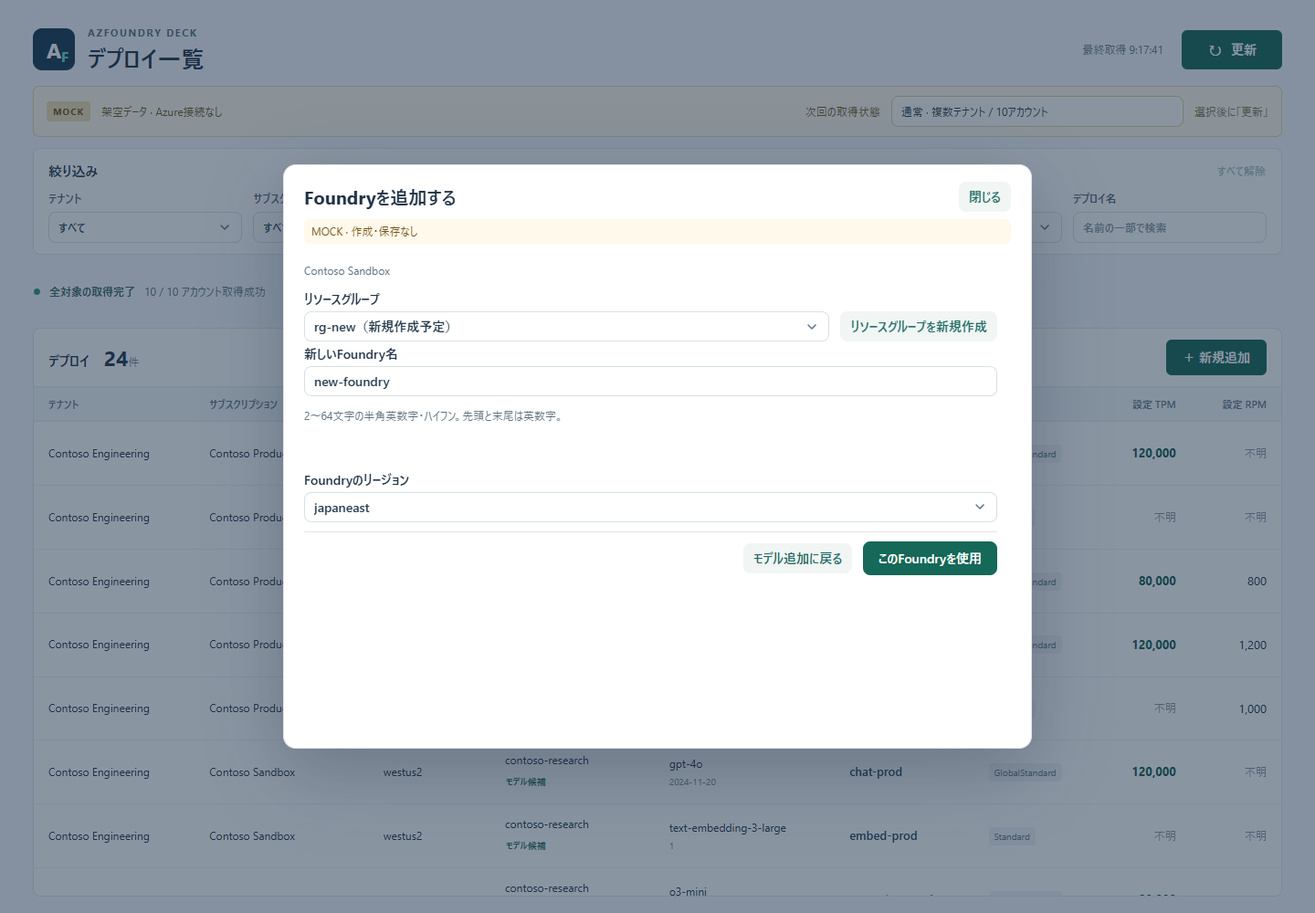
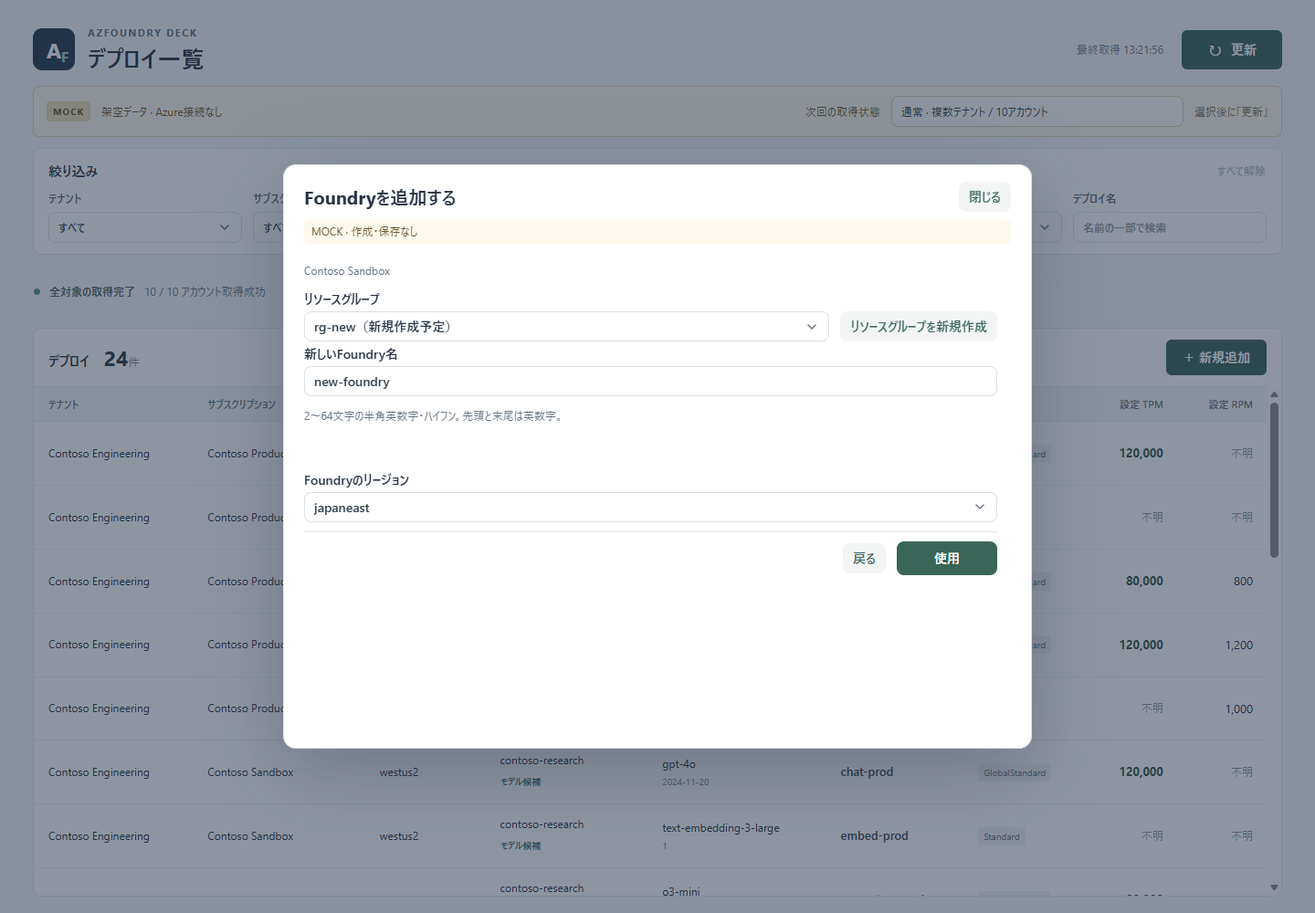
Simplify add-model dialog actions and validate deployment names
Shorten the dialog action labels to 変更 / 追加 / 確認 / 使用 / 戻る and
drop the header close button on the completion screen, where the primary
action is now 閉じる.

Validate the deployment name (2-64 alphanumerics, underscore, hyphen,
period) and show the rule beside the field so the dialog still fits
1080x720. Resource group and Foundry rules are unchanged: a 1-character
resource group name is accepted because Azure allows 1-90.

Add -Attach to the F2 browser test so it drives an already running Edge
over CDP. Playwright cannot launch Edge 153 at all (exit 3221225477,
headless and headed alike), and upgrading @playwright/cli to 0.1.19 does
not help.

diff --git a/frontend/src/AddModel.tsx b/frontend/src/AddModel.tsx
@@ -40,6 +40,8 @@ export default function AddModel({ catalog, loadModels, onClose }: Props) {
   const foundryRule = "2〜64文字の半角英数字・ハイフン。先頭と末尾は英数字。";
   const groupRule = "1〜90文字の文字・数字・_ - . ( )。末尾のピリオドと空白は使用できません。";
   const foundryError = foundryName && (!/^[a-zA-Z0-9][a-zA-Z0-9-]{0,62}[a-zA-Z0-9]$/.test(foundryName) ? foundryRule : foundries.some(item => item.name.toLowerCase() === foundryName.toLowerCase()) ? "同じリソースグループに同名のFoundryがあります。" : "");
+  const deployRule = "2〜64文字の半角英数字・アンダースコア・ハイフン・ピリオド。";
+  const deployError = name && !/^[a-zA-Z0-9_.-]{2,64}$/.test(name) ? deployRule : "";
   const groupError = groupName && (!/^[\p{L}\p{Nd}_().-]{1,90}$/u.test(groupName) || groupName.endsWith(".") ? groupRule : groups.some(item => item.name.toLowerCase() === groupName.toLowerCase()) ? "同じサブスクリプションに同名のリソースグループがあります。" : "");
   function resetModel() {
     modelRequest.current++;
@@ -77,7 +79,7 @@ export default function AddModel({ catalog, loadModels, onClose }: Props) {
   function openGroup(from: "model" | "foundry") { setGroupReturn(from); setGroupName(""); setScreen("group"); }
   const groupPicker = <div className="add-field"><label htmlFor="add-group">リソースグループ</label><div className="add-select-action"><select id="add-group" required value={group} disabled={!subscription} onChange={event => changeGroup(event.target.value)}><option value="">選択してください</option>{groups.map(item => <option key={item.name}>{item.name}</option>)}{newGroup ? <option value={newGroup.name}>{newGroup.name}（新規作成予定）</option> : null}</select><button type="button" className="back-button" disabled={!subscription} onClick={() => openGroup(screen === "foundry" ? "foundry" : "model")}>リソースグループを新規作成</button></div></div>;
   return <dialog ref={dialog} className="add-dialog" aria-labelledby="add-title" onCancel={onClose}>
-    <header className="add-heading"><div><h2 id="add-title" ref={heading} tabIndex={-1}>{titles[screen]}</h2></div><button className="back-button" onClick={onClose} aria-label="モデル追加を閉じる">閉じる</button></header>
+    <header className="add-heading"><div><h2 id="add-title" ref={heading} tabIndex={-1}>{titles[screen]}</h2></div>{screen === "done" ? null : <button className="back-button" onClick={onClose} aria-label="モデル追加を閉じる">閉じる</button>}</header>
     <p className="add-notice">MOCK · 作成・保存なし</p>
     {screen === "model" ? <form onSubmit={event => { event.preventDefault(); setScreen("review"); }}>
       <div className="add-section">
@@ -92,13 +94,13 @@ export default function AddModel({ catalog, loadModels, onClose }: Props) {
 
       <fieldset className="add-section" disabled={modelStatus !== "ready" || !models.length}><legend className="sr-only">モデルとデプロイ設定</legend>
         <div className="add-grid"><label className="add-field">モデル<select aria-label="モデル" required value={model} onChange={event => chooseModel(event.target.value)}><option value="">選択してください</option>{models.map(item => <option key={item.name}>{item.name}</option>)}</select></label><label className="add-field">バージョン<select aria-label="バージョン" required value={version} onChange={event => setVersion(event.target.value)}><option value="">選択してください</option>{selectedModel?.versions.map(item => <option key={item}>{item}</option>)}</select></label><label className="add-field">SKU<select aria-label="SKU" required value={sku} onChange={event => setSku(event.target.value)}><option value="">選択してください</option>{selectedModel?.skus.map(item => <option key={item}>{item}</option>)}</select></label><label className="add-field">Capacity<input type="number" required min="1" step="1" value={capacity} onChange={event => setCapacity(event.target.value)} /></label></div>
-        <label className="add-field">デプロイ名<input required value={name} pattern=".*\S.*" onChange={event => setName(event.target.value)} placeholder="例: chat-production" /></label>
-      </fieldset>      <details className="add-load-controls"><summary>モック：モデル取得の再現</summary><label>モデル取得の状態<select aria-label="モデル取得の状態" value={loadScenario} onChange={event => setLoadScenario(event.target.value as ModelLoadScenario)}><option value="success">通常（約0.8秒）</option><option value="slow">時間がかかる（約8秒）</option><option value="empty">候補なし</option><option value="failure">取得失敗</option></select></label><button type="button" className="text-button" disabled={!foundry} onClick={() => void fetchModels(foundry)}>モデル候補を再取得</button></details><div className="add-actions"><button type="button" className="back-button" onClick={onClose}>キャンセル</button><button className="primary" disabled={modelStatus !== "ready" || !models.length}>追加内容を確認</button></div>
+        <div className="add-grid"><label className="add-field">デプロイ名<input required inputMode="url" autoCapitalize="none" autoCorrect="off" spellCheck={false} aria-describedby="deploy-validation" aria-invalid={Boolean(deployError)} value={name} onChange={event => setName(event.target.value)} placeholder="例: chat-production" /></label><p id="deploy-validation" className={deployError ? "add-validation add-validation-inline add-error" : "add-validation add-validation-inline"} aria-live="polite">{deployError || deployRule}</p></div>
+      </fieldset>      <details className="add-load-controls"><summary>モック：モデル取得の再現</summary><label>モデル取得の状態<select aria-label="モデル取得の状態" value={loadScenario} onChange={event => setLoadScenario(event.target.value as ModelLoadScenario)}><option value="success">通常（約0.8秒）</option><option value="slow">時間がかかる（約8秒）</option><option value="empty">候補なし</option><option value="failure">取得失敗</option></select></label><button type="button" className="text-button" disabled={!foundry} onClick={() => void fetchModels(foundry)}>モデル候補を再取得</button></details><div className="add-actions"><button type="button" className="back-button" onClick={onClose}>キャンセル</button><button className="primary" disabled={modelStatus !== "ready" || !models.length || Boolean(deployError)}>確認</button></div>
     </form> : null}
-    {screen === "foundry" ? <form onSubmit={event => { event.preventDefault(); if (!foundryName || foundryError) return; setNewFoundry({ name: foundryName.trim(), region: foundryRegion }); chooseFoundry(foundryName.trim()); setScreen("model"); }}><p className="add-context">{selectedSubscription?.name}</p>{groupPicker}<label className="add-field">新しいFoundry名<input required inputMode="url" autoCapitalize="none" autoCorrect="off" spellCheck={false} aria-describedby="foundry-validation" aria-invalid={Boolean(foundryError)} value={foundryName} onChange={event => setFoundryName(event.target.value)} /></label><p id="foundry-validation" className={foundryError ? "add-validation add-error" : "add-validation"} aria-live="polite">{foundryError || foundryRule}</p><label className="add-field">Foundryのリージョン<select aria-label="Foundryのリージョン" value={foundryRegion} onChange={event => setFoundryRegion(event.target.value)}><option>japaneast</option><option>eastus</option><option>swedencentral</option></select></label><div className="add-actions"><button type="button" className="back-button" onClick={() => setScreen("model")}>モデル追加に戻る</button><button className="primary" disabled={!foundryName || Boolean(foundryError)}>このFoundryを使用</button></div></form> : null}
-    {screen === "group" ? <form onSubmit={event => { event.preventDefault(); if (!groupName || groupError) return; setNewGroup({ name: groupName.trim(), region: groupRegion }); changeGroup(groupName.trim()); setScreen(groupReturn); }}><p className="add-context">{selectedSubscription?.name}</p><label className="add-field">新しいリソースグループ名<input required inputMode="url" autoCapitalize="none" autoCorrect="off" spellCheck={false} aria-describedby="group-validation" aria-invalid={Boolean(groupError)} value={groupName} onChange={event => setGroupName(event.target.value)} /></label><p id="group-validation" className={groupError ? "add-validation add-error" : "add-validation"} aria-live="polite">{groupError || groupRule}</p><label className="add-field">リソースグループのリージョン<select aria-label="リソースグループのリージョン" value={groupRegion} onChange={event => setGroupRegion(event.target.value)}><option>japaneast</option><option>eastus</option><option>swedencentral</option></select></label><div className="add-actions"><button type="button" className="back-button" onClick={() => setScreen(groupReturn)}>戻る</button><button className="primary" disabled={!groupName || Boolean(groupError)}>このリソースグループを使用</button></div></form> : null}
+    {screen === "foundry" ? <form onSubmit={event => { event.preventDefault(); if (!foundryName || foundryError) return; setNewFoundry({ name: foundryName.trim(), region: foundryRegion }); chooseFoundry(foundryName.trim()); setScreen("model"); }}><p className="add-context">{selectedSubscription?.name}</p>{groupPicker}<label className="add-field">新しいFoundry名<input required inputMode="url" autoCapitalize="none" autoCorrect="off" spellCheck={false} aria-describedby="foundry-validation" aria-invalid={Boolean(foundryError)} value={foundryName} onChange={event => setFoundryName(event.target.value)} /></label><p id="foundry-validation" className={foundryError ? "add-validation add-error" : "add-validation"} aria-live="polite">{foundryError || foundryRule}</p><label className="add-field">Foundryのリージョン<select aria-label="Foundryのリージョン" value={foundryRegion} onChange={event => setFoundryRegion(event.target.value)}><option>japaneast</option><option>eastus</option><option>swedencentral</option></select></label><div className="add-actions"><button type="button" className="back-button" onClick={() => setScreen("model")}>戻る</button><button className="primary" disabled={!foundryName || Boolean(foundryError)}>使用</button></div></form> : null}
+    {screen === "group" ? <form onSubmit={event => { event.preventDefault(); if (!groupName || groupError) return; setNewGroup({ name: groupName.trim(), region: groupRegion }); changeGroup(groupName.trim()); setScreen(groupReturn); }}><p className="add-context">{selectedSubscription?.name}</p><label className="add-field">新しいリソースグループ名<input required inputMode="url" autoCapitalize="none" autoCorrect="off" spellCheck={false} aria-describedby="group-validation" aria-invalid={Boolean(groupError)} value={groupName} onChange={event => setGroupName(event.target.value)} /></label><p id="group-validation" className={groupError ? "add-validation add-error" : "add-validation"} aria-live="polite">{groupError || groupRule}</p><label className="add-field">リソースグループのリージョン<select aria-label="リソースグループのリージョン" value={groupRegion} onChange={event => setGroupRegion(event.target.value)}><option>japaneast</option><option>eastus</option><option>swedencentral</option></select></label><div className="add-actions"><button type="button" className="back-button" onClick={() => setScreen(groupReturn)}>戻る</button><button className="primary" disabled={!groupName || Boolean(groupError)}>使用</button></div></form> : null}
     {screen === "review" || screen === "done" ? <><dl className="add-summary">{[
       ["サブスクリプション", selectedSubscription?.name], ["リソースグループ", `${group}${newGroup?.name === group ? `（新規 / ${newGroup.region}）` : "（既存）"}`], ["Foundry", `${foundry}（${newFoundry?.name === foundry ? "新規" : "既存"} / ${region}）`], ["モデル / バージョン", `${model} / ${version}`], ["SKU / Capacity", `${sku} / ${capacity}`], ["デプロイ名", name],
-    ].map(([label, value]) => <div key={label}><dt>{label}</dt><dd>{value}</dd></div>)}</dl><p>{screen === "done" ? "追加完了の表示までを再現しました。一覧への保存は行っていません。" : "新規指定したリソースグループ、Foundry、モデルの順に作成する想定です。"}</p><div className="add-actions">{screen === "review" ? <><button className="back-button" onClick={() => setScreen("model")}>入力内容を変更</button><button className="primary" onClick={() => setScreen("done")}>モデル追加を再現</button></> : <button className="primary" onClick={onClose}>一覧に戻る</button>}</div></> : null}
+    ].map(([label, value]) => <div key={label}><dt>{label}</dt><dd>{value}</dd></div>)}</dl><p>{screen === "done" ? "追加完了の表示までを再現しました。一覧への保存は行っていません。" : "新規指定したリソースグループ、Foundry、モデルの順に作成する想定です。"}</p><div className="add-actions">{screen === "review" ? <><button className="back-button" onClick={() => setScreen("model")}>変更</button><button className="primary" onClick={() => setScreen("done")}>追加</button></> : <button className="primary" onClick={onClose}>閉じる</button>}</div></> : null}
   </dialog>;
 }

diff --git a/frontend/tests/add-model.browser.js b/frontend/tests/add-model.browser.js
@@ -60,7 +60,7 @@ async page => {
   await field("Foundry").selectOption("contoso-first-model");
   assert(await inputPosition() === positionBeforeLoad, "Foundry特定と読込開始でモデル欄を動かさない");
   await page.getByRole("progressbar", { name: "モデル候補の読込状況" }).waitFor();
-  assert(await field("モデル").isDisabled() && await button("追加内容を確認").isDisabled(), "取得中の設定・確定を無効化");
+  assert(await field("モデル").isDisabled() && await button("確認").isDisabled(), "取得中の設定・確定を無効化");
   await page.getByText("モック：モデル取得の再現", { exact: true }).click();
   await field("モデル取得の状態").selectOption("slow");
   await button("モデル候補を再取得").click();
@@ -87,11 +87,18 @@ async page => {
   await field("SKU").selectOption("Standard");
   await field("モデル").selectOption("text-embedding-3-large");
   assert(await field("バージョン").inputValue() === "1" && await field("SKU").inputValue() === "Standard" && await field("デプロイ名").inputValue() === "text-embedding-3-large", "モデル変更で既定値を再設定");
+  for (const invalid of ["a", "chat production", "日本語", "a".repeat(65), "chat/prod"]) {
+    await field("デプロイ名").fill(invalid);
+    assert(await button("確認").isDisabled(), `デプロイ名不正の拒否: ${invalid}`);
+  }
+  await field("デプロイ名").fill("chat.prod_1-a");
+  assert(await button("確認").isEnabled(), "デプロイ名有効の許可");
+  await checkStableValidation("デプロイ名", "chat-prod", "a");
   await chooseModel();
   await page.screenshot({ path: "docs/verification/add-model-existing.png" });
-  await button("追加内容を確認").click();
+  await button("確認").click();
   assert((await page.locator(".add-summary").textContent()).includes("contoso-first-model（既存"), "0件Foundryの選択");
-  await button("入力内容を変更").click();
+  await button("変更").click();
   assert(await field("デプロイ名").inputValue() === "first-chat", "確認から戻る入力保持");
   await field("サブスクリプション").selectOption("subscription-002");
   assert(await field("リソースグループ").inputValue() === "" && await field("Foundry").inputValue() === "", "上位変更で配置先解除");
@@ -99,37 +106,38 @@ async page => {
   await checkStableValidation("新しいFoundry名", "valid-foundry", "a");
   for (const invalid of ["a", "a".repeat(65), "-foundry", "foundry-", "bad_name", "bad name", "日本語"]) {
     await field("新しいFoundry名").fill(invalid);
-    assert(await button("このFoundryを使用").isDisabled(), `Foundry不正名の拒否: ${invalid}`);
+    assert(await button("使用").isDisabled(), `Foundry不正名の拒否: ${invalid}`);
   }
   for (const valid of ["ab", "A".repeat(64), "valid-foundry"]) {
     await field("新しいFoundry名").fill(valid);
-    assert(await button("このFoundryを使用").isEnabled(), "Foundry有効名の許可");
+    assert(await button("使用").isEnabled(), "Foundry有効名の許可");
   }
   await field("新しいFoundry名").fill("new-foundry");
   await button("リソースグループを新規作成").click();
   await checkStableValidation("新しいリソースグループ名", "valid-rg", "bad name");
   for (const invalid of ["bad name", "name.", "bad/name", "a".repeat(91), "RG-SANDBOX"]) {
     await field("新しいリソースグループ名").fill(invalid);
-    assert(await button("このリソースグループを使用").isDisabled(), `RG不正名・重複の拒否: ${invalid}`);
+    assert(await button("使用").isDisabled(), `RG不正名・重複の拒否: ${invalid}`);
   }
   for (const valid of ["a", "a".repeat(90), "日本語_開発(1)-rg"]) {
     await field("新しいリソースグループ名").fill(valid);
-    assert(await button("このリソースグループを使用").isEnabled(), "RG有効名の許可");
+    assert(await button("使用").isEnabled(), "RG有効名の許可");
   }
   await field("新しいリソースグループ名").fill("rg-new");
   await page.screenshot({ path: "docs/verification/add-model-group.png" });
-  await button("このリソースグループを使用").click();
+  await button("使用").click();
   assert(await field("新しいFoundry名").inputValue() === "new-foundry", "拡張操作から戻る入力保持");
   await page.screenshot({ path: "docs/verification/add-model-foundry.png" });
-  await button("このFoundryを使用").click();
+  await button("使用").click();
   await chooseModel();
-  await button("追加内容を確認").click();
+  await button("確認").click();
   const summary = await page.locator(".add-summary").textContent();
   assert(summary.includes("rg-new（新規") && summary.includes("new-foundry（新規"), "両リソース新規作成");
   await page.screenshot({ path: "docs/verification/add-model-review.png" });
-  await button("モデル追加を再現").click();
+  await button("追加").click();
   await page.getByRole("heading", { name: "モデル追加の再現が完了しました" }).waitFor();
-  await button("一覧に戻る").click();
+  assert(await button("閉じる").count() === 1, "完了画面の閉じるは1つだけ");
+  await button("閉じる").click();
   // The entry remains available when the deployment list itself is empty.
   await page.getByLabel("次回の取得状態", { exact: true }).selectOption("empty");
   await page.getByRole("button", { name: /(?:更新|再取得)$/ }).click();
@@ -138,15 +146,15 @@ async page => {
   await field("サブスクリプション").selectOption("subscription-001");
   await button("リソースグループを新規作成").click();
   await field("新しいリソースグループ名").fill("rg-direct");
-  await button("このリソースグループを使用").click();
+  await button("使用").click();
   assert(await field("リソースグループ").inputValue() === "rg-direct", "配置先欄からの直接作成");
   await button("Foundryを新規作成").click();
-  await button("モデル追加に戻る").click();
+  await button("戻る").click();
   assert(await field("Foundry").inputValue() === "", "キャンセルでFoundryを作らない");
   await page.setViewportSize({ width: 1080, height: 720 });
   assert(await page.locator("dialog").evaluate(el => el.scrollWidth <= el.clientWidth), "ダイアログの横はみ出し");
   await page.keyboard.press("Escape");
   assert(await page.getByRole("dialog").count() === 0, "Escapeで閉じる");
   assert(errors.length === 0, errors.join("\n"));
-  return { passed: true, checks: ["model-loading-empty-error-retry-stale", "stable-validation-and-input-mode", "list-button-placement", "model-defaults", "resource-naming", "empty-foundry", "review-and-back", "subscription-reset", "nested-resource-creation", "mock-completion", "empty-list-entry", "direct-group-creation", "cancel", "responsive-and-escape"], pageErrors: errors };
+  return { passed: true, checks: ["model-loading-empty-error-retry-stale", "stable-validation-and-input-mode", "list-button-placement", "model-defaults", "deploy-name-validation", "resource-naming", "empty-foundry", "review-and-back", "subscription-reset", "nested-resource-creation", "mock-completion", "empty-list-entry", "direct-group-creation", "cancel", "responsive-and-escape"], pageErrors: errors };
 }

diff --git a/frontend/src/style.css b/frontend/src/style.css
@@ -27,6 +27,7 @@
 .deployment-list-actions { display: flex; align-items: center; justify-content: space-between; width: 100%; gap: 24px; }
 .deployment-list-actions .primary { padding: 9px 16px; }
 .add-validation { color: #637583; font-size: 12px; height: 4.8em; line-height: 1.6; margin: 12px 0; }
+.add-validation.add-validation-inline { height: 3.2em; margin: 4px 0; align-self: end; }
 .add-validation.add-error { color: #b42318; }
 .add-model-load { height: 32px; overflow: auto; display: flex; align-items: center; gap: 10px; flex-wrap: wrap; color: #637583; font-size: 12px; }
 .add-model-load progress { width: 120px; height: 8px; accent-color: #166858; }

diff --git a/PLAN.md b/PLAN.md
@@ -4,13 +4,13 @@
 
 ## 1. 現在の到達点（2026-09-14）
 
-**次は「モデルを追加する」仮UIの利用者確認を続ける。実Azureでの作成処理にはまだ進まない。** 今回の引き継ぎ依頼は、最新版UIの最終動作合意ではありません。
+**次は「モデルを追加する」仮UIの残りのシナリオを利用者と確認し、実処理へ移す前の設計（U4）に入る。実Azureでの作成処理にはまだ進まない。**
 
 | 機能 | 実装・合意・検証の状態 |
 | --- | --- |
 | F1：アカウント横断のデプロイ一覧 | モック・実Azure読取を実装済み。2026-09-13に残件を[Issue #1](https://github.com/nuitsjp/azfoundry-deck/issues/1)へ移管してクローズ。今回の一覧UI簡潔化を含むheadless 13項目は合格。最後の共通フォーカス・選択欄CSS変更後にはF1全項目を再実行していない。 |
 | F2：モデル候補参照 | 共通Goサービス・Azure ARM List Models・旧独立画面は実装済み。旧画面のモック9項目・実Azureサービス／画面は過去の実行で合格。今後はモデル追加の選択操作に位置づける。旧独立画面の承認を次の開始条件にしない。 |
-| F3：モデル追加 | RG・Foundry新規入力を含む仮UIのみ実装。モデル候補はフロントエンドの固定データを非同期で返し、既存のGo ModelServiceには未接続。作成・保存・一覧反映は行わない。最新版のheadless 14項目は合格、利用者の最終合意は未取得。 |
+| F3：モデル追加 | RG・Foundry新規入力を含む仮UIのみ実装。モデル候補はフロントエンドの固定データを非同期で返し、既存のGo ModelServiceには未接続。作成・保存・一覧反映は行わない。2026-09-14に確認・完了ダイアログのボタン表記を簡潔化（変更／追加／確認／使用／戻る／閉じる）し、完了画面の右上「閉じる」を削除。同日、デプロイ名に入力検査（2〜64文字の半角英数字・アンダースコア・ハイフン・ピリオド）を追加。15項目は接続Edgeで再実行して合格。同日、利用者はボタン表記・デプロイ名検査・RGの1文字許容を合意。仮UI全体の通し確認は未完。 |
 | F3：既存デプロイの変更・削除 | 未実装。詳細ユースケースも未合意。 |
 | F4：クォータ参照 | 未実装・詳細未合意。 |
 
@@ -28,10 +28,11 @@
 
 | ID | 状態と内容 | 再開条件・扱い |
 | --- | --- | --- |
-| U1 | モデル追加全体の最新版仮UIの最終合意待ち。個別の変更指示は反映済み。 | 次回は仮UI確認から再開。F2独立画面への最終合意を別途求めない。 |
+| U1 | モデル追加仮UIは部分合意。2026-09-14にボタン表記、完了画面の右上「閉じる」削除、デプロイ名検査、RGの1文字許容を合意した。既存Foundryへの追加、空Foundryへの初回追加、Foundry新規追加、そこからのRG新規追加、候補の読込中・失敗・再試行の通し確認は記録なし。 | 次回は残りのシナリオ確認から再開する。F2独立画面への最終合意を別途求めない。 |
 | U2 | ネイティブWebView2、Windows IMEの実際のOFF切替、高コントラスト表示は未検証。入力モード属性とheadless画面は確認済み。 | ネイティブを操作・観測できる環境で確認。IME OFFを確認済みと報告しない。F1ネイティブ残件はIssue #1。 |
 | U3 | F1の実Deployment API複数ページ、別権限構成、許容性能、TPM/RPMのPortal照合はIssue #1へ移管済み。 | Issueの項目ごとの再開条件に従う。後続機能全体を止める条件にはしない。認証不能サブスクリプションは合意済み異常系で、再ログイン成功を要求しない。 |
-| U4 | 新規Foundryと候補取得の順序、費用、名前競合、部分成功・結果不明・再試行の扱い、実検証先が未確定。 | 上記2・3で具体化してから実作成へ進む。現在のモックは実処理の成功を保証しない。 |
+| U4 | 新規Foundryと候補取得の順序、費用、名前競合、部分成功・結果不明・再試行の扱い、実検証先が未確定。RG・Foundryのリージョンは現在3件の固定値で、実接続時にAzureから取得する前提で2026-09-14に了承を得た。 | 上記2・3で具体化してから実作成へ進む。現在のモックは実処理の成功を保証しない。 |
+| U5 | デプロイ名の命名規則が未合意。2026-09-14に暫定で2〜64文字の半角英数字・アンダースコア・ハイフン・ピリオドを実装したが、Azureの正式な下限・許可文字は未確認。同一Foundry内のデプロイ名重複検査も未実装で、固定候補に既存デプロイ名を持っていない。 | Azureの規則を確認して確定する。重複検査はU4の作成条件と併せて決める。RGの1〜90文字はAzureの規則どおりで、[Azureの命名規則](https://learn.microsoft.com/en-us/azure/azure-resource-manager/management/resource-name-rules)に基づく合意済みの挙動。 |
 
 ## 4. 再開手順と実装の所在
 
@@ -41,5 +42,6 @@
 - モック選択例：`Contoso Production` → `rg-production` → `contoso-first-model`（デプロイ0件）。状態再現は追加フォーム末尾の「モック：モデル取得の再現」。
 - 画面：[AddModel.tsx](frontend/src/AddModel.tsx)、[App.tsx](frontend/src/App.tsx)、[style.css](frontend/src/style.css)。追加用固定候補と遅延境界：[addModelMock.ts](frontend/src/addModelMock.ts)。
 - 既存F2取得：[共通サービス](internal/service/models.go)、[Azure境界](internal/azurego/provider.go)。新しい追加フォームとの接続は未実装。
-- 検証：`mise run test`、`mise run test:add-model:ui`。一覧は `mise run test:ui`。9245番を残す場合はビルド後に `pwsh -NoProfile -File scripts/Test-F1Browser.ps1 -Port 9249`。
+- 検証：`mise run test`。追加画面は `pwsh -NoProfile -File scripts/Test-F2Browser.ps1 -AddModel -Attach`。一覧は `mise run test:ui`。
+- Edge 153ではPlaywrightからのEdge起動が即座に異常終了する（終了コード3221225477）。headless・headedとも同じで、`@playwright/cli` 0.1.19へ更新しても解消しない。素のEdgeは正常に起動するため、原因はPlaywrightが渡す起動オプション側にある。回避として、Edgeの「Allow remote debugging for this browser instance」を有効にした起動済みEdgeへ `-Attach` で接続して検証する。F1・F2の各スクリプトのうち、`-Attach` を実装したのは `scripts/Test-F2Browser.ps1` だけで、`scripts/Test-F1Browser.ps1` は未対応。9245番を残す場合はビルド後に `pwsh -NoProfile -File scripts/Test-F1Browser.ps1 -Port 9249`。
 - 最新版の追加画面14項目は型検査・Windows serverビルドを含めて合格。引き継ぎ整理時に `mise run test`（Go、フロントエンド3テスト）を再実行して合格。実Azureの検証は今回再実行していない。
